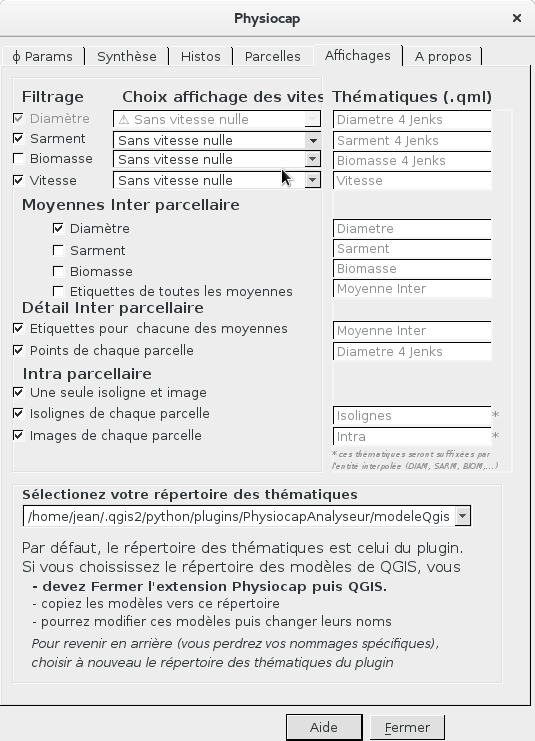
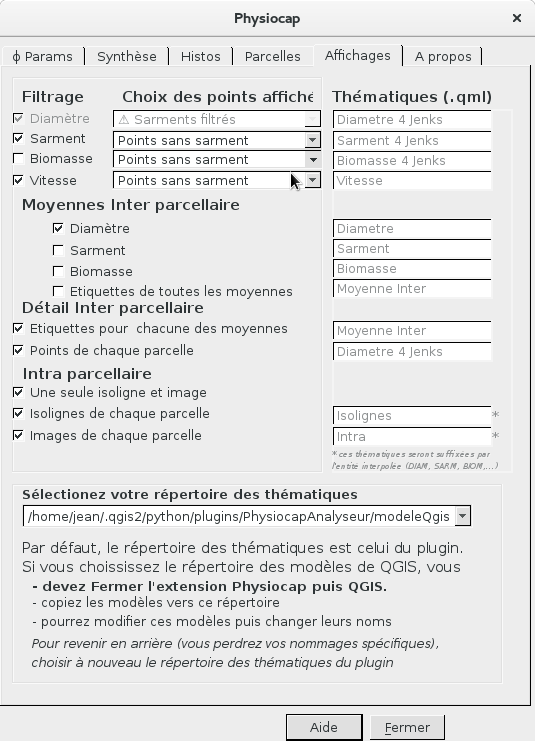
Document USER

diff --git a/i18n/Physiocap_en.ts b/i18n/Physiocap_en.ts
@@ -4,7 +4,7 @@
 <context>
     <name></name>
     <message utf8="true">
-        <location filename="Physiocap_CIVC.py" line="479"/>
+        <location filename="Physiocap_CIVC.py" line="464"/>
         <source>Problème majeur dans le choix du détail du parcellaire</source>
         <translation>Major problem during choices of parcels details</translation>
     </message>
@@ -453,16 +453,6 @@ Erreur bloquante sous Windows qui nécessite de créer une nouvelle instance du 
         <source>Pas de répertoire de données cibles spécifié</source>
         <translation>No folder choosen for your target data</translation>
     </message>
-    <message>
-        <location filename="Physiocap_dialog.py" line="270"/>
-        <source>Sans vitesse nulle</source>
-        <translation>Speed not null</translation>
-    </message>
-    <message>
-        <location filename="Physiocap_dialog.py" line="271"/>
-        <source>Avec vitesse nulle</source>
-        <translation>Speed can be  null</translation>
-    </message>
     <message utf8="true">
         <location filename="Physiocap_dialog.py" line="284"/>
         <source>Nombre d&apos;isolignes permet le calcul de l&apos;écartement des isolignes</source>
@@ -477,6 +467,16 @@ Erreur bloquante sous Windows qui nécessite de créer une nouvelle instance du 
         <location filename="Physiocap_dialog.py" line="99"/>
         <source>{0} Params</source>
         <translation>{0} Main</translation>
+    </message>
+    <message utf8="true">
+        <location filename="Physiocap_dialog.py" line="270"/>
+        <source>Sarments filtrés</source>
+        <translation>Filtered vine shoot</translation>
+    </message>
+    <message>
+        <location filename="Physiocap_dialog.py" line="271"/>
+        <source>Points sans sarment</source>
+        <translation>Points with no vine shoot</translation>
     </message>
 </context>
 <context>
@@ -982,7 +982,7 @@ p, li { white-space: pre-wrap; }
     <message utf8="true">
         <location filename="Physiocap_dialog_base.ui" line="68"/>
         <source>&lt;html&gt;&lt;head/&gt;&lt;body&gt;&lt;p&gt;&lt;span style=&quot; font-size:8pt;&quot;&gt;Usage des onglets de l&apos;extension Physiocap :&lt;/span&gt;&lt;/p&gt;&lt;p&gt;&lt;span style=&quot; font-size:8pt;&quot;&gt;- ϕ Params pour les paramètres initaux de l&apos;extension&lt;/span&gt;&lt;/p&gt;&lt;p&gt;&lt;span style=&quot; font-size:8pt;&quot;&gt;- Synthèse donne une lecture synthétiques de l&apos;analyse de vos données brutes&lt;/span&gt;&lt;/p&gt;&lt;p&gt;&lt;span style=&quot; font-size:8pt;&quot;&gt;- Histos permet de valider vos filtres&lt;/span&gt;&lt;/p&gt;&lt;p&gt;&lt;span style=&quot; font-size:8pt;&quot;&gt;- Parcelles pour des calculs de moyennes INTER parcellaires puis une interpolation INTRA&lt;/span&gt;&lt;/p&gt;&lt;p&gt;&lt;span style=&quot; font-size:8pt;&quot;&gt;- Affichages permet de choisir les couches affichées et leurs thématiques (coloriage, légende...)&lt;/span&gt;&lt;/p&gt;&lt;p&gt;&lt;span style=&quot; font-size:8pt;&quot;&gt;- A Propos donne les liens pour plus d&apos;informations&lt;/span&gt;&lt;/p&gt;&lt;/body&gt;&lt;/html&gt;</source>
-        <translation type="unfinished"></translation>
+        <translation></translation>
     </message>
     <message utf8="true">
         <location filename="Physiocap_dialog_base.ui" line="475"/>
@@ -1053,26 +1053,6 @@ p, li { white-space: pre-wrap; }
         <location filename="Physiocap_dialog_base.ui" line="2008"/>
         <source>Points de chaque parcelle</source>
         <translation>Points of each plot</translation>
-    </message>
-    <message>
-        <location filename="Physiocap_dialog_base.ui" line="2099"/>
-        <source>Choix affichage des vitesses </source>
-        <translation>Speeds can be 0 or not </translation>
-    </message>
-    <message utf8="true">
-        <location filename="Physiocap_dialog_base.ui" line="2115"/>
-        <source>&lt;html&gt;&lt;head/&gt;&lt;body&gt;&lt;p&gt;&lt;span style=&quot; font-size:10pt; color:#00aa00;&quot;&gt;Pour la thématique &amp;quot;Diamètre&amp;quot;, l&apos;affichage en fin de filtrage contiendra les données sans vitesses nulles.&lt;/span&gt;&lt;/p&gt;&lt;/body&gt;&lt;/html&gt;</source>
-        <translation>&lt;html&gt;&lt;head/&gt;&lt;body&gt;&lt;p&gt;&lt;span style=&quot; font-size:10pt; color:#00aa00;&quot;&gt;For &amp;quot;Diamètre&amp;quot;, data shown on the en of filtration are with no null speed.&lt;/span&gt;&lt;/p&gt;&lt;/body&gt;&lt;/html&gt;</translation>
-    </message>
-    <message utf8="true">
-        <location filename="Physiocap_dialog_base.ui" line="2171"/>
-        <source>&lt;html&gt;&lt;head/&gt;&lt;body&gt;&lt;p&gt;&lt;span style=&quot; font-size:10pt; color:#00aa00;&quot;&gt;Vous pouvez choisir d&apos;afficher en fin de filtrage : les données avec les vitesses nulles ou les données sans vitesse nulle.&lt;/span&gt;&lt;/p&gt;&lt;/body&gt;&lt;/html&gt;</source>
-        <translation type="unfinished"></translation>
-    </message>
-    <message utf8="true">
-        <location filename="Physiocap_dialog_base.ui" line="2215"/>
-        <source>&lt;html&gt;&lt;head/&gt;&lt;body&gt;&lt;p&gt;&lt;span style=&quot; font-size:10pt; color:#00aa00;&quot;&gt;Pour la thématique &amp;quot;Vitesse&amp;quot;, l&apos;affichage en fin de filtrage contiendra les données avec les vitesses nulles.&lt;/span&gt;&lt;/p&gt;&lt;/body&gt;&lt;/html&gt;</source>
-        <translation type="unfinished"></translation>
     </message>
     <message utf8="true">
         <location filename="Physiocap_dialog_base.ui" line="2263"/>
@@ -1172,16 +1152,36 @@ p, li { white-space: pre-wrap; }
     <message utf8="true">
         <location filename="Physiocap_dialog_base.ui" line="2909"/>
         <source>choisir à nouveau le répertoire des thématiques du plugin</source>
-        <translation type="unfinished"></translation>
+        <translation>choose again the plugin&apos;s tempates directory</translation>
     </message>
     <message utf8="true">
         <location filename="Physiocap_dialog_base.ui" line="2953"/>
         <source>- copiez les modèles vers ce répertoire</source>
         <translation>- copy the models to QGIS template folder</translation>
     </message>
+    <message utf8="true">
+        <location filename="Physiocap_dialog_base.ui" line="2099"/>
+        <source>Choix des points affichés</source>
+        <translation>Choose which points to display</translation>
+    </message>
+    <message utf8="true">
+        <location filename="Physiocap_dialog_base.ui" line="2115"/>
+        <source>&lt;html&gt;&lt;head/&gt;&lt;body&gt;&lt;p&gt;&lt;span style=&quot; font-size:10pt; color:#00aa00;&quot;&gt;Pour la thématique &amp;quot;Diamètre&amp;quot;, l&apos;affichage en fin de filtrage contiendra uniquement les points qui ont des sarments filtrés.&lt;/span&gt;&lt;/p&gt;&lt;/body&gt;&lt;/html&gt;</source>
+        <translation type="unfinished"></translation>
+    </message>
+    <message utf8="true">
+        <location filename="Physiocap_dialog_base.ui" line="2171"/>
+        <source>&lt;html&gt;&lt;head/&gt;&lt;body&gt;&lt;p&gt;&lt;span style=&quot; font-size:10pt; color:#00aa00;&quot;&gt;Vous pouvez choisir d&apos;afficher en fin de filtrage : &lt;/span&gt;&lt;/p&gt;&lt;p&gt;&lt;span style=&quot; font-size:10pt; color:#00aa00;&quot;&gt;les points avec uniquement les sarments filtrés &lt;/span&gt;&lt;/p&gt;&lt;p&gt;&lt;span style=&quot; font-size:10pt; font-weight:600; color:#00aa00;&quot;&gt;ou&lt;/span&gt;&lt;/p&gt;&lt;p&gt;&lt;span style=&quot; font-size:10pt; color:#00aa00;&quot;&gt;les points avec les sarments filtrés et les points sans sarments mesurés.&lt;/span&gt;&lt;/p&gt;&lt;/body&gt;&lt;/html&gt;</source>
+        <translation type="unfinished"></translation>
+    </message>
+    <message utf8="true">
+        <location filename="Physiocap_dialog_base.ui" line="2215"/>
+        <source>&lt;html&gt;&lt;head/&gt;&lt;body&gt;&lt;p&gt;&lt;span style=&quot; font-size:10pt; color:#00aa00;&quot;&gt;Vous pouvez choisir d&apos;afficher en fin de filtrage : &lt;/span&gt;&lt;/p&gt;&lt;p&gt;&lt;span style=&quot; font-size:10pt; color:#00aa00;&quot;&gt;les points avec uniquement les sarments filtrés &lt;/span&gt;&lt;/p&gt;&lt;p&gt;&lt;span style=&quot; font-size:10pt; font-weight:600; color:#00aa00;&quot;&gt;ou&lt;/span&gt;&lt;/p&gt;&lt;p&gt;&lt;span style=&quot; font-size:10pt; color:#00aa00;&quot;&gt;les points avec les sarments filtrés et les points sans sarments mesurés. Ce choix est adapté pour visualiser toutes les arrêts (vitesses nulles).&lt;/span&gt;&lt;/p&gt;&lt;/body&gt;&lt;/html&gt;</source>
+        <translation type="unfinished"></translation>
+    </message>
     <message>
         <location filename="Physiocap_dialog_base.ui" line="3120"/>
-        <source>Version 1.6.3 CONSOLIDATION</source>
+        <source>Version 1.6.3 B CONSOLIDATION</source>
         <translation></translation>
     </message>
 </context>

diff --git a/i18n/Physiocap_it.ts b/i18n/Physiocap_it.ts
@@ -8,7 +8,7 @@
         <translation>Physiocap</translation>
     </message>
     <message encoding="UTF-8">
-        <location filename="Physiocap_CIVC.py" line="479"/>
+        <location filename="Physiocap_CIVC.py" line="464"/>
         <source>Problème majeur dans le choix du détail du parcellaire</source>
         <translation>Problema maggiore nelle scelte
 dei dettagli delle parcelle</translation>
@@ -48,16 +48,6 @@ dei dettagli delle parcelle</translation>
         <location filename="Physiocap_dialog.py" line="215"/>
         <source>Pas de liste des formats de vecteurs pré défini</source>
         <translation>La lista dei formati dei vettori non è definita</translation>
-    </message>
-    <message>
-        <location filename="Physiocap_dialog.py" line="270"/>
-        <source>Sans vitesse nulle</source>
-        <translation>velocità non nulla</translation>
-    </message>
-    <message>
-        <location filename="Physiocap_dialog.py" line="271"/>
-        <source>Avec vitesse nulle</source>
-        <translation>La velocità può essere nulla</translation>
     </message>
     <message encoding="UTF-8">
         <location filename="Physiocap_dialog.py" line="284"/>
@@ -471,6 +461,16 @@ Erreur bloquante sous Windows qui nécessite de créer une nouvelle instance du 
     <message>
         <location filename="Physiocap_dialog.py" line="99"/>
         <source>{0} Params</source>
+        <translation type="unfinished"></translation>
+    </message>
+    <message encoding="UTF-8">
+        <location filename="Physiocap_dialog.py" line="270"/>
+        <source>Sarments filtrés</source>
+        <translation type="unfinished"></translation>
+    </message>
+    <message>
+        <location filename="Physiocap_dialog.py" line="271"/>
+        <source>Points sans sarment</source>
         <translation type="unfinished"></translation>
     </message>
 </context>
@@ -977,28 +977,8 @@ Erreur bloquante sous Windows qui nécessite de créer une nouvelle instance du 
         <translation type="unfinished"></translation>
     </message>
     <message>
-        <location filename="Physiocap_dialog_base.ui" line="2099"/>
-        <source>Choix affichage des vitesses </source>
-        <translation type="unfinished"></translation>
-    </message>
-    <message encoding="UTF-8">
-        <location filename="Physiocap_dialog_base.ui" line="2115"/>
-        <source>&lt;html&gt;&lt;head/&gt;&lt;body&gt;&lt;p&gt;&lt;span style=&quot; font-size:10pt; color:#00aa00;&quot;&gt;Pour la thématique &amp;quot;Diamètre&amp;quot;, l&apos;affichage en fin de filtrage contiendra les données sans vitesses nulles.&lt;/span&gt;&lt;/p&gt;&lt;/body&gt;&lt;/html&gt;</source>
-        <translation type="unfinished"></translation>
-    </message>
-    <message encoding="UTF-8">
-        <location filename="Physiocap_dialog_base.ui" line="2171"/>
-        <source>&lt;html&gt;&lt;head/&gt;&lt;body&gt;&lt;p&gt;&lt;span style=&quot; font-size:10pt; color:#00aa00;&quot;&gt;Vous pouvez choisir d&apos;afficher en fin de filtrage : les données avec les vitesses nulles ou les données sans vitesse nulle.&lt;/span&gt;&lt;/p&gt;&lt;/body&gt;&lt;/html&gt;</source>
-        <translation type="unfinished"></translation>
-    </message>
-    <message>
         <location filename="Physiocap_dialog_base.ui" line="2196"/>
         <source>Vitesse</source>
-        <translation type="unfinished"></translation>
-    </message>
-    <message encoding="UTF-8">
-        <location filename="Physiocap_dialog_base.ui" line="2215"/>
-        <source>&lt;html&gt;&lt;head/&gt;&lt;body&gt;&lt;p&gt;&lt;span style=&quot; font-size:10pt; color:#00aa00;&quot;&gt;Pour la thématique &amp;quot;Vitesse&amp;quot;, l&apos;affichage en fin de filtrage contiendra les données avec les vitesses nulles.&lt;/span&gt;&lt;/p&gt;&lt;/body&gt;&lt;/html&gt;</source>
         <translation type="unfinished"></translation>
     </message>
     <message encoding="UTF-8">
@@ -1170,9 +1150,29 @@ p, li { white-space: pre-wrap; }
         <source>- copiez les modèles vers ce répertoire</source>
         <translation type="unfinished"></translation>
     </message>
+    <message encoding="UTF-8">
+        <location filename="Physiocap_dialog_base.ui" line="2099"/>
+        <source>Choix des points affichés</source>
+        <translation type="unfinished"></translation>
+    </message>
+    <message encoding="UTF-8">
+        <location filename="Physiocap_dialog_base.ui" line="2115"/>
+        <source>&lt;html&gt;&lt;head/&gt;&lt;body&gt;&lt;p&gt;&lt;span style=&quot; font-size:10pt; color:#00aa00;&quot;&gt;Pour la thématique &amp;quot;Diamètre&amp;quot;, l&apos;affichage en fin de filtrage contiendra uniquement les points qui ont des sarments filtrés.&lt;/span&gt;&lt;/p&gt;&lt;/body&gt;&lt;/html&gt;</source>
+        <translation type="unfinished"></translation>
+    </message>
+    <message encoding="UTF-8">
+        <location filename="Physiocap_dialog_base.ui" line="2171"/>
+        <source>&lt;html&gt;&lt;head/&gt;&lt;body&gt;&lt;p&gt;&lt;span style=&quot; font-size:10pt; color:#00aa00;&quot;&gt;Vous pouvez choisir d&apos;afficher en fin de filtrage : &lt;/span&gt;&lt;/p&gt;&lt;p&gt;&lt;span style=&quot; font-size:10pt; color:#00aa00;&quot;&gt;les points avec uniquement les sarments filtrés &lt;/span&gt;&lt;/p&gt;&lt;p&gt;&lt;span style=&quot; font-size:10pt; font-weight:600; color:#00aa00;&quot;&gt;ou&lt;/span&gt;&lt;/p&gt;&lt;p&gt;&lt;span style=&quot; font-size:10pt; color:#00aa00;&quot;&gt;les points avec les sarments filtrés et les points sans sarments mesurés.&lt;/span&gt;&lt;/p&gt;&lt;/body&gt;&lt;/html&gt;</source>
+        <translation type="unfinished"></translation>
+    </message>
+    <message encoding="UTF-8">
+        <location filename="Physiocap_dialog_base.ui" line="2215"/>
+        <source>&lt;html&gt;&lt;head/&gt;&lt;body&gt;&lt;p&gt;&lt;span style=&quot; font-size:10pt; color:#00aa00;&quot;&gt;Vous pouvez choisir d&apos;afficher en fin de filtrage : &lt;/span&gt;&lt;/p&gt;&lt;p&gt;&lt;span style=&quot; font-size:10pt; color:#00aa00;&quot;&gt;les points avec uniquement les sarments filtrés &lt;/span&gt;&lt;/p&gt;&lt;p&gt;&lt;span style=&quot; font-size:10pt; font-weight:600; color:#00aa00;&quot;&gt;ou&lt;/span&gt;&lt;/p&gt;&lt;p&gt;&lt;span style=&quot; font-size:10pt; color:#00aa00;&quot;&gt;les points avec les sarments filtrés et les points sans sarments mesurés. Ce choix est adapté pour visualiser toutes les arrêts (vitesses nulles).&lt;/span&gt;&lt;/p&gt;&lt;/body&gt;&lt;/html&gt;</source>
+        <translation type="unfinished"></translation>
+    </message>
     <message>
         <location filename="Physiocap_dialog_base.ui" line="3120"/>
-        <source>Version 1.6.3 CONSOLIDATION</source>
+        <source>Version 1.6.3 B CONSOLIDATION</source>
         <translation type="unfinished"></translation>
     </message>
 </context>

diff --git a/Physiocap_dialog.py b/Physiocap_dialog.py
@@ -235,7 +235,7 @@ class PhysiocapAnalyseurDialog( QtGui.QDialog, FORM_CLASS):
         # Remplissage de la liste de SHAPE Filtre
         # DIAMETRE : Cas unique
         self.fieldComboShapeDiametre.clear( )
-        self.fieldComboShapeDiametre.addItem( PHYSIOCAP_WARNING + " " + self.trUtf8("Sans vitesse nulle"))
+        self.fieldComboShapeDiametre.addItem( PHYSIOCAP_WARNING + " " + self.trUtf8("Sarments filtrés"))
         self.fieldComboShapeDiametre.setCurrentIndex( 0)                
  
         # SARMENT
@@ -243,8 +243,8 @@ class PhysiocapAnalyseurDialog( QtGui.QDialog, FORM_CLASS):
         leChoixDeShape = int( self.settings.value("Physiocap/leChoixShapeSarment", -1)) 
         # Cas initial
         self.fieldComboShapeSarment.clear( )
-        self.fieldComboShapeSarment.addItem( self.trUtf8("Sans vitesse nulle") )
-        self.fieldComboShapeSarment.addItem( self.trUtf8("Avec vitesse nulle") )
+        self.fieldComboShapeSarment.addItem( self.trUtf8("Sarments filtrés") )
+        self.fieldComboShapeSarment.addItem( self.trUtf8("Points sans sarment") )
         if ( leChoixDeShape == -1):
             self.fieldComboShapeSarment.setCurrentIndex( 0)                
         else:
@@ -255,8 +255,8 @@ class PhysiocapAnalyseurDialog( QtGui.QDialog, FORM_CLASS):
         leChoixDeShape = int( self.settings.value("Physiocap/leChoixShapeVitesse", -1)) 
         # Cas initial
         self.fieldComboShapeVitesse.clear( )
-        self.fieldComboShapeVitesse.addItem( self.trUtf8("Sans vitesse nulle") )
-        self.fieldComboShapeVitesse.addItem( self.trUtf8("Avec vitesse nulle") )
+        self.fieldComboShapeVitesse.addItem( self.trUtf8("Sarments filtrés") )
+        self.fieldComboShapeVitesse.addItem( self.trUtf8("Points sans sarment") )
         if ( leChoixDeShape == -1):
             self.fieldComboShapeVitesse.setCurrentIndex( 0)                
         else:
@@ -267,8 +267,8 @@ class PhysiocapAnalyseurDialog( QtGui.QDialog, FORM_CLASS):
         leChoixDeShape = int( self.settings.value("Physiocap/leChoixShapeBiomasse", -1)) 
         # Cas initial
         self.fieldComboShapeBiomasse.clear( )
-        self.fieldComboShapeBiomasse.addItem( self.trUtf8("Sans vitesse nulle") )
-        self.fieldComboShapeBiomasse.addItem( self.trUtf8("Avec vitesse nulle") )
+        self.fieldComboShapeBiomasse.addItem( self.trUtf8("Sarments filtrés") )
+        self.fieldComboShapeBiomasse.addItem( self.trUtf8("Points sans sarment") )
         if ( leChoixDeShape == -1):
             self.fieldComboShapeBiomasse.setCurrentIndex( 0)                
         else:

diff --git a/Physiocap_CIVC.py b/Physiocap_CIVC.py
@@ -151,21 +151,6 @@ def physiocap_csv_vers_shapefile( self, progress_barre, csv_name, shape_name, pr
     # Prepare les attributs
     les_champs = QgsFields()
     # V1.0 Ajout du GID
-##    les_champs.append( QgsField("gid", QVariant.Int, "integer", 10))
-##    les_champs.append( QgsField("date", QVariant.String, "string", 25))
-##    les_champs.append( QgsField("vitesse", QVariant.Double, "double", 10,2))
-##    les_champs.append(QgsField("nbsarm",  QVariant.Double, "double", 10,2))
-##    les_champs.append(QgsField("diam",  QVariant.Double, "double", 10,2))
-##    les_champs.append(QgsField("biom", QVariant.Double,"double", 10,2)) 
-##    if details == "YES":
-##        # Niveau de detail demandé
-##        les_champs.append(QgsField("nbsarmm2", QVariant.Double,"double", 10,2))
-##        les_champs.append(QgsField("nbsarmcep", QVariant.Double,"double", 10,2))
-##        les_champs.append(QgsField("biomm2", QVariant.Double,"double", 10,2))
-##        les_champs.append(QgsField("biomgm2", QVariant.Double,"double", 10,2))
-##        les_champs.append(QgsField("biomgcep", QVariant.Double,"double", 10,2))
-## 
-    # V1.0 Ajout du GID
     les_champs.append( QgsField("GID", QVariant.Int, "integer", 10))
     les_champs.append( QgsField("DATE", QVariant.String, "string", 25))
     les_champs.append( QgsField("VITESSE", QVariant.Double, "double", 10,2))
